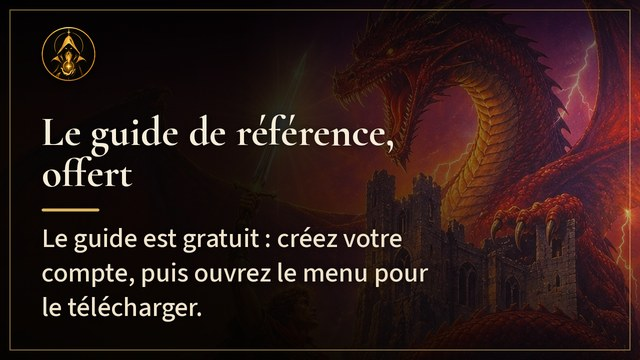
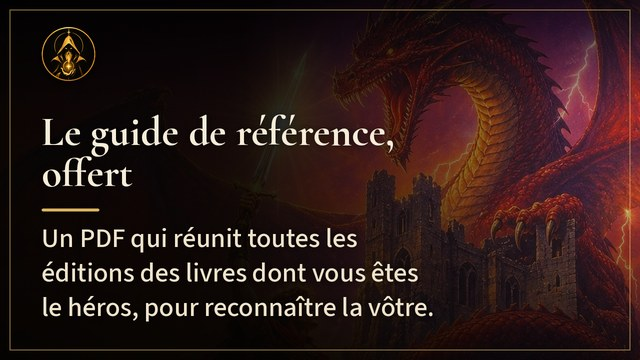
Guide du mois : image avec le mois écrit dessus ; le guide expliqué dans l'image et les textes (#1320)
* Annonces : préréglages Chasse et Veille hors du panneau, repris dans le générateur de pages

Claude-Session: https://claude.ai/code/session_01HTe4GG8zQBr2ycdCYNMDrp

* Consignes : les pages générées se modifient dans le gabarit

Claude-Session: https://claude.ai/code/session_01HTe4GG8zQBr2ycdCYNMDrp

* Offre Sorcier : textes plus positifs (articles et bandeau de fin d'accès)

Claude-Session: https://claude.ai/code/session_01HTe4GG8zQBr2ycdCYNMDrp

* Nouvelle : le guide de référence, offert et mis à jour chaque jour (page, carte Communauté, flux RSS)

Claude-Session: https://claude.ai/code/session_01HTe4GG8zQBr2ycdCYNMDrp

* Nouvelle du guide de référence : version courte

Claude-Session: https://claude.ai/code/session_01HTe4GG8zQBr2ycdCYNMDrp

* Nouvelle du guide : le guide donne un niveau de prix, pas la cote par état

Claude-Session: https://claude.ai/code/session_01HTe4GG8zQBr2ycdCYNMDrp

* Nouvelle du guide : intitulé exact de l'entrée du menu

Claude-Session: https://claude.ai/code/session_01HTe4GG8zQBr2ycdCYNMDrp

* Nouvelle du guide : repères du marché, sans prix

Claude-Session: https://claude.ai/code/session_01HTe4GG8zQBr2ycdCYNMDrp

* Nouvelle du guide : une stratégie par zone, pas une méthode pour savoir quand acheter

Claude-Session: https://claude.ai/code/session_01HTe4GG8zQBr2ycdCYNMDrp

* Flux RSS : texte détaillé par nouvelle pour les publications Facebook

Claude-Session: https://claude.ai/code/session_01HTe4GG8zQBr2ycdCYNMDrp
[…]

Changed region(s): [[0.0625, 0.7333, 0.6875, 0.7944], [0.0625, 0.6111, 0.625, 0.7028], [0.0938, 0.825, 0.6875, 0.9167]]

diff --git a/web/guide-reference.html b/web/guide-reference.html
@@ -4,12 +4,12 @@
 <meta charset="utf-8">
 <meta name="viewport" content="width=device-width, initial-scale=1">
 <title>Le guide de référence, offert · La Cote du Héros</title>
-<meta name="description" content="Chaque livre, chaque édition et ses repères, avec la stratégie du collectionneur : le guide PDF est offert et refait chaque jour.">
+<meta name="description" content="Un PDF qui réunit plus de 500 éditions des livres dont vous êtes le héros, pour reconnaître son édition et compléter ses séries : offert et refait chaque jour.">
 <meta property="og:type" content="website">
 <meta property="og:site_name" content="La Cote du Héros">
 <meta property="og:locale" content="fr_FR">
 <meta property="og:title" content="Le guide de référence, offert · La Cote du Héros">
-<meta property="og:description" content="Chaque livre, chaque édition et ses repères, avec la stratégie du collectionneur : le guide PDF est offert et refait chaque jour.">
+<meta property="og:description" content="Un PDF qui réunit plus de 500 éditions des livres dont vous êtes le héros, pour reconnaître son édition et compléter ses séries : offert et refait chaque jour.">
 <meta property="og:image" content="https://lacoteduheros.fr/data/communaute/guide-reference-partage.jpg">
 <meta property="og:image:width" content="1200">
 <meta property="og:image:height" content="630">
@@ -54,7 +54,7 @@
 <p class="surtitre">Nouvelle · <time datetime="2026-11-22">22 novembre 2026</time></p>
 <h1>Le guide de référence, offert</h1>
 <img class="nouvelle-img pleine" src="images/guide-reference.webp" alt="Le guide de référence, offert : un héros brandit son épée face à un dragon" width="1200" height="630" decoding="async">
-<p>Chaque livre, chaque édition et ses repères, avec la stratégie du collectionneur selon la zone de chaque livre. Le guide est <strong>offert</strong> et <strong>refait chaque jour</strong>.</p>
+<p>Le guide de référence est un PDF qui réunit plus de 500 éditions des livres dont vous êtes le héros, éditeur par éditeur. Il sert à reconnaître son édition, à tenir sa collection à jour et à voir ce qu'il reste à trouver pour compléter une série. Il est <strong>offert</strong> et <strong>refait chaque jour</strong>.</p>
 <h2>Dedans</h2>
 <ul>
   <li>Tous les livres, éditeur par éditeur, avec leurs repères : le nombre d'annonces en ligne, un niveau de prix et la zone.</li>

diff --git a/pipeline/nouvelle.py b/pipeline/nouvelle.py
@@ -292,11 +292,37 @@ def creer(titre, phrase, texte, fond=FOND_PAR_DEFAUT, jour=None, slug="", descri
             "web/data/communaute.json", "web/nouvelles.xml"]
 
 
+def images_guide_du_mois(jour=None, dossier=None):
+    """Images (grande et vignette) de la carte mensuelle du guide, avec le mois écrit : une par mois depuis la première édition, celles qui manquent seulement.
+    Renvoie les chemins écrits."""
+    sys.path.insert(0, str(Path(__file__).resolve().parent))
+    import flux_nouvelles as fn
+    jour = jour or date.today()
+    dossier = Path(dossier) if dossier else WEB / "data" / "communaute"
+    dossier.mkdir(parents=True, exist_ok=True)
+    ecrits, (a, m) = [], fn.PREMIERE_EDITION
+    while (a, m) <= (jour.year, jour.month):
+        grande_f, petite_f = dossier / f"guide-{a}-{m:02d}-partage.jpg", dossier / f"guide-{a}-{m:02d}.jpg"
+        if not (grande_f.exists() and petite_f.exists()):
+            grande, petite = images(f"Le guide de référence\n{fn.MOIS[m - 1].capitalize()} {a}", "Un PDF qui réunit toutes les éditions des livres dont vous êtes le héros, pour reconnaître la vôtre.", "heros-dragon")
+            grande.save(grande_f, quality=88, optimize=True)
+            petite.save(petite_f, quality=88, optimize=True)
+            ecrits += [str(grande_f), str(petite_f)]
+        a, m = (a + 1, 1) if m == 12 else (a, m + 1)
+    return ecrits
+
+
 def main(argv=None):
     a = argparse.ArgumentParser(description=__doc__.split("\n")[0])
     for nom in ("titre", "phrase", "texte", "texte_facebook", "description", "fond", "date", "slug", "apercu"):
         a.add_argument("--" + nom.replace("_", "-"), default=os.environ.get("NOUVELLE_" + nom.upper(), ""))
+    a.add_argument("--guide-du-mois", action="store_true", help="crée les images de la carte mensuelle du guide qui manquent")
+    a.add_argument("--jusqu-a", default="", help="avec --guide-du-mois : jour limite AAAA-MM-JJ (par défaut aujourd'hui)")
     o = a.parse_args(argv)
+    if o.guide_du_mois:
+        jour = datetime.strptime(o.jusqu_a, "%Y-%m-%d").date() if o.jusqu_a else None
+        print("\n".join(x.replace(str(RACINE) + "/", "") for x in images_guide_du_mois(jour)))
+        return 0
     try:
         chemins = creer(o.titre, o.phrase, o.texte, o.fond or FOND_PAR_DEFAUT, o.date or None, o.slug, o.description, o.texte_facebook, o.apercu or None)
     except ValueError as e:

diff --git a/pipeline/flux_nouvelles.py b/pipeline/flux_nouvelles.py
@@ -25,18 +25,24 @@ MOIS = ("janvier", "février", "mars", "avril", "mai", "juin", "juillet", "août
 PREMIERE_EDITION = (2026, 12)
 
 
+def de_mois(m):
+    """« de décembre », « d'avril » : le mois (1 à 12) avec sa préposition."""
+    nom = MOIS[m - 1]
+    return ("d'" if nom[0] in "aeiouéhâ" else "de ") + nom
+
+
 def editions_mensuelles(jour):
     """Une entrée par premier du mois, de PREMIERE_EDITION jusqu'au mois de `jour` (un objet date)."""
     sortie, (a, m) = [], PREMIERE_EDITION
     while (a, m) <= (jour.year, jour.month):
         sortie.append({
-            "nom": f"Guide de référence : édition de {MOIS[m - 1]} {a}",
+            "nom": f"Guide de référence : édition {de_mois(m)} {a}",
             "adresse": f"{BASE}guide-reference.html#guide-{a}-{m:02d}",
-            "description": f"Le guide PDF de {MOIS[m - 1]} {a} est prêt : les repères, les quatre zones et la stratégie du collectionneur. Offert avec votre compte.",
-            "texte_flux": (f"Le guide de référence de {MOIS[m - 1]} {a} est prêt.\n\nTous les livres avec leurs repères, et la stratégie du collectionneur, dans un PDF refait chaque jour.\n\n"
+            "description": f"Le guide PDF {de_mois(m)} {a} est prêt : toutes les éditions des livres dont vous êtes le héros, pour reconnaître la vôtre et compléter vos séries.",
+            "texte_flux": (f"Le guide de référence {de_mois(m)} {a} est prêt.\n\nC'est un PDF qui réunit plus de 500 éditions des livres dont vous êtes le héros : il sert à reconnaître son édition, à tenir sa collection à jour et à compléter ses séries. Il est refait chaque jour.\n\n"
                            "Pour l'avoir : créez votre compte gratuit avec Google. Vous profitez de 3 mois de Sorcier, guide compris."),
-            "image": "data/communaute/guide-reference.jpg",
-            "image_flux": "data/communaute/guide-reference-partage.jpg",
+            "image": f"data/communaute/guide-{a}-{m:02d}.jpg",
+            "image_flux": f"data/communaute/guide-{a}-{m:02d}-partage.jpg",          # créées avant la carte : voir pipeline/nouvelle.py (--guide-du-mois)
             "date": f"{a}-{m:02d}-01",
         })
         a, m = (a + 1, 1) if m == 12 else (a, m + 1)

diff --git a/pipeline/test_flux_nouvelles.py b/pipeline/test_flux_nouvelles.py
@@ -50,7 +50,10 @@ class TestFlux(unittest.TestCase):
         self.assertEqual(e[1]["nom"], "Guide de référence : édition de janvier 2027")
         self.assertEqual(len({x["adresse"] for x in e}), 2)
         self.assertTrue(all(x["adresse"].startswith("https://lacoteduheros.fr/guide-reference.html#guide-") for x in e))
-        self.assertTrue(all(x["image_flux"].endswith("guide-reference-partage.jpg") and x["texte_flux"] for x in e))
+        self.assertEqual([x["image_flux"] for x in e], ["data/communaute/guide-2026-12-partage.jpg", "data/communaute/guide-2027-01-partage.jpg"])
+        self.assertTrue(all(x["texte_flux"] for x in e))
+        self.assertEqual(editions_mensuelles(date(2027, 4, 1))[-1]["nom"], "Guide de référence : édition d'avril 2027")
+        self.assertEqual(editions_mensuelles(date(2027, 8, 1))[-1]["nom"], "Guide de référence : édition d'août 2027")
         ajoutee = ajouter_editions(LISTE, date(2027, 1, 15))
         self.assertEqual(nouvelles(ajoutee)[0]["date"], "2027-01-01")
         self.assertEqual(ajouter_editions(ajoutee, date(2027, 1, 20)), ajoutee)      # sans doublon

diff --git a/pipeline/test_nouvelle.py b/pipeline/test_nouvelle.py
@@ -65,6 +65,15 @@ class TestNouvelle(unittest.TestCase):
         fonds = re.findall(r'<option value="([a-z\-]+)">', page_communaute[page_communaute.index('id="nouv-fond"'):])
         self.assertEqual(fonds[:len(nouvelle.FONDS)], list(nouvelle.FONDS))
 
+    def test_images_du_guide_du_mois_une_par_mois_et_sans_refaire(self):
+        from datetime import date
+        with tempfile.TemporaryDirectory() as d:
+            premiers = nouvelle.images_guide_du_mois(date(2026, 11, 30), d)
+            self.assertEqual(premiers, [])          # avant la première édition : rien
+            ecrits = nouvelle.images_guide_du_mois(date(2027, 1, 1), d)
+            self.assertEqual(sorted(Path(x).name for x in ecrits), ["guide-2026-12-partage.jpg", "guide-2026-12.jpg", "guide-2027-01-partage.jpg", "guide-2027-01.jpg"])
+            self.assertEqual(nouvelle.images_guide_du_mois(date(2027, 1, 20), d), [])          # déjà faites
+
     def test_nouvelle_refusee_si_champ_vide(self):
         with self.assertRaises(ValueError):
             nouvelle.creer("", "Phrase.", "Texte")
